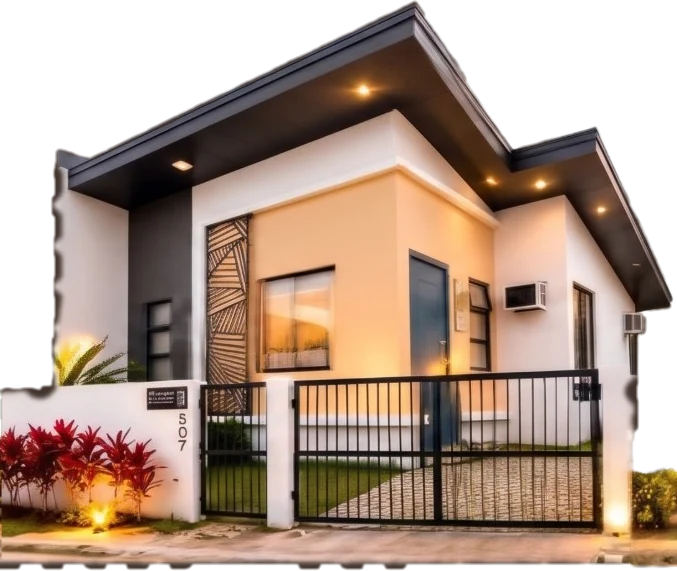
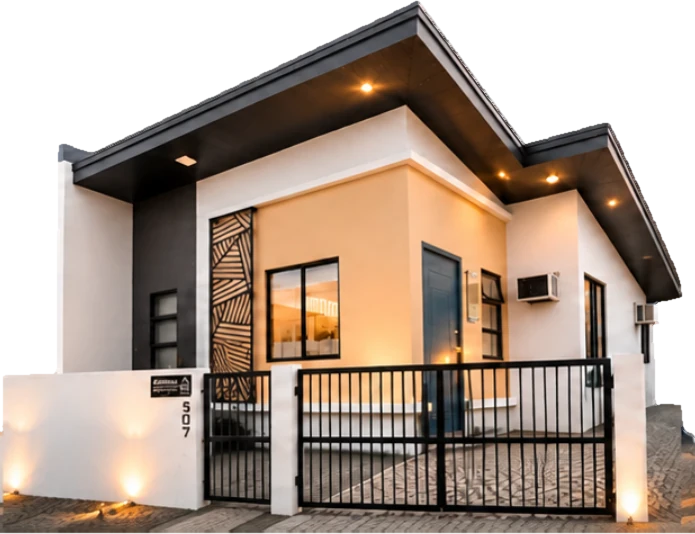
House cut-outs from the Canva pictures: white background becomes transparency, houses split at their gaps
Claude-Session: https://claude.ai/code/session_01MkTV9UDit9hhRyBLPYsYJ9

diff --git a/design/house-models/make-cutouts.py b/design/house-models/make-cutouts.py
@@ -1,21 +1,25 @@
-"""Turn the supplied house renders into transparent WebP cut-outs for public/assets/img/models/.
+"""Turn the supplied house pictures into transparent WebP cut-outs for public/assets/img/models/.
 
-    pip install numpy pillow scipy opencv-python-headless
+    pip install numpy pillow scipy
     python3 design/house-models/make-cutouts.py
 
-Two kinds of source picture are handled:
+The pictures in `source/` come from Canva's background remover, exported as PNG with the
+background left white (pure white, 255). Two kinds of source are handled:
 
-* A picture with real transparency is only cropped and trimmed. Nothing is repainted.
-* A picture with a checkerboard painted into the pixels (what a flattened screenshot or JPEG
-  gives) has the checkerboard removed. The squares are white and one light grey; their size is
-  measured from the top of each picture, so 1024 px and 2000 px sources both work. A pixel counts
-  as "checkerboard" when it is light and neutral AND its neighbourhood holds both checker tones,
-  which a plain white wall never does. That core is grown a few pixels to reach the house edge,
-  then GrabCut settles the edge itself.
+* A picture with real transparency is only cropped and trimmed.
+* A picture on a flat white background has the white that touches the picture's edge turned into
+  transparency (white walls inside the house are not touched, because they are not connected to
+  the edge), the one-pixel rim of half-white pixels is replaced by the colour just inside it so no
+  white halo shows on a dark page, and a large pocket of pure white seen through the house (an open
+  carport) is made transparent too.
+
+Pictures with several houses are split at the clear gaps between them.
+
+Do NOT use a screenshot, a JPEG, or a picture with a checkerboard painted in: those carry no
+transparency and cannot be cut cleanly.
 """
 from pathlib import Path
 
-import cv2
 import numpy as np
 from PIL import Image
 from scipy import ndimage as ndi
@@ -24,62 +28,48 @@ HERE = Path(__file__).parent
 SRC = HERE / "source"
 OUT = HERE.parent.parent / "public" / "assets" / "img" / "models"
 MAX_WIDTH = 1400  # the page never shows a house wider than this, even on a 2x screen
-
-
-def odd(n):
-    n = max(3, int(round(n)))
-    return n if n % 2 else n + 1
-
-
-def checker_cell(gray):
-    """Size in px of one checker square, from the autocorrelation of a row near the top."""
-    h, w = gray.shape
-    best = None
-    for y in (4, 7, 10, 13):
-        row = gray[min(y, h - 1), : min(w, 700)].astype(np.float32)
-        row = row - row.mean()
-        n = len(row)
-        ac = np.correlate(row, row, mode="full")[n - 1 :]
-        ac = ac / (ac[0] + 1e-6)
-        # first clear peak after the first dip = the full period (two squares)
-        dip = next((i for i in range(2, 120) if ac[i] < 0.1), None)
-        if dip is None:
-            continue
-        peak = dip + int(np.argmax(ac[dip : dip + 160]))
-        if ac[peak] > 0.3:
-            best = peak if best is None else min(best, peak)
-    return max(4.0, (best or 20) / 2.0)
-
-
-def checker_masks(rgb, cell):
-    a = rgb.astype(np.int16)
-    gray = a.mean(axis=2)
-    sat = a.max(axis=2) - a.min(axis=2)
-    c = int(max(60, cell * 6))
-    corner = gray[:c, :c]
-    grey_tone = float(np.median(corner[corner < 240]))
-    neutral = sat < 18
-    white = neutral & (gray >= 243)
-    grey = neutral & (np.abs(gray - grey_tone) <= 16)
-    k = odd(cell * 1.1)
-    wf = ndi.uniform_filter(white.astype(np.float32), k)
-    gf = ndi.uniform_filter(grey.astype(np.float32), k)
-    core = (wf > 0.15) & (gf > 0.15) & (wf + gf > 0.9)
-    # "light" is what the edge may grow through: only pixels that are as flat and neutral as the
-    # checker itself (pure white, or exactly the grey tone). A cream or lit white wall is not.
-    light = (sat <= 5) & ((gray >= 250) | (np.abs(gray - grey_tone) <= 9))
-    return core, light, grey_tone
+WHITE_TOL = 253  # a pixel is "white" when its darkest channel is at least this
 
 
 def has_alpha(img):
-    """True when the picture already carries real transparency (not a checkerboard painted in)."""
     if img.mode not in ("RGBA", "LA", "PA") and "transparency" not in img.info:
         return False
     lo, _ = img.convert("RGBA").getchannel("A").getextrema()
     return lo < 250
 
 
-def finish(im):
+def to_rgba(img):
+    """RGBA copy of a picture, with transparency made from its white background if it has none."""
+    if has_alpha(img):
+        return img.convert("RGBA")
+
+    rgb = np.asarray(img.convert("RGB")).copy()
+    white = rgb.min(axis=2) >= WHITE_TOL
+    lab, _ = ndi.label(white)
+    edge = np.unique(np.concatenate([lab[0], lab[-1], lab[:, 0], lab[:, -1]]))
+    bg = np.isin(lab, edge[edge > 0])
+
+    # Pure white seen through the house (an open carport, a gap between railings) is background too.
+    exact = rgb.min(axis=2) == 255
+    lab2, n2 = ndi.label(exact & ~bg)
+    if n2:
+        sizes = ndi.sum(exact & ~bg, lab2, range(1, n2 + 1))
+        bg |= np.isin(lab2, [i + 1 for i, sz in enumerate(sizes) if sz >= 600])
+
+    # Anti-aliased rim: drop one pixel, soften the next, and take the colour from just inside.
+    solid = ndi.binary_erosion(~bg, iterations=1)
+    alpha = ndi.gaussian_filter(solid.astype(np.float32), 0.7)
+    alpha = np.clip((alpha - 0.1) / 0.8, 0, 1)
+    interior = ndi.binary_erosion(~bg, iterations=3)
+    _, idx = ndi.distance_transform_edt(~interior, return_indices=True)
+    rim = (alpha < 0.999) | ~interior
+    rim &= ~bg
+    out = rgb.copy()
+    out[rim] = rgb[idx[0][rim], idx[1][rim]]
+    return Image.fromarray(np.dstack([out, (alpha * 255).astype(np.uint8)]), "RGBA")
+
+
+def trim(im):
     box = im.getchannel("A").point(lambda v: 255 if v > 8 else 0).getbbox()
     if box:
         im = im.crop(box)
@@ -88,121 +78,96 @@ def finish(im):
     return im
 
 
-def save(im, out_path):
-    if out_path:
-        out_path.parent.mkdir(parents=True, exist_ok=True)
-        im.save(out_path, "WEBP", quality=88, method=6)
-    return im
+def split_points(im, count):
+    """x positions that separate `count` houses side by side: the middle of the widest clear gaps
+    in the upper part of the picture (the fences and ground strip below may run into each other)."""
+    a = np.asarray(im.getchannel("A")).astype(np.float32)
+    top = a[: int(a.shape[0] * 0.62)]
+    empty = top.sum(axis=0) < 255 * 2
+    gaps, x = [], 0
+    while x < len(empty):
+        if empty[x]:
+            y = x
+            while y < len(empty) and empty[y]:
+                y += 1
+            if x > 0 and y < len(empty):  # ignore the empty margins on either side
+                gaps.append((y - x, (x + y) // 2))
+            x = y
+        else:
+            x += 1
+    best = sorted(gaps, reverse=True)[: count - 1]
+    # Fences and the ground strip can run past the middle of the gap, so slide each cut to the
+    # emptiest column nearby, looking at the middle and lower part of the picture.
+    mid = a[int(a.shape[0] * 0.3) : int(a.shape[0] * 0.97)].sum(axis=0)
+    cuts = []
+    for width, centre in sorted(best, key=lambda g: g[1]):
+        r = max(40, width // 2 + 60)
+        lo, hi = max(0, centre - r), min(len(mid), centre + r)
+        cuts.append(lo + int(np.argmin(mid[lo:hi])))
+    return cuts
 
 
-# Open carports show the checkerboard through the house. Where the automatic pass misses a pocket,
-# these boxes (fractions x0, y0, x1, y1 of the finished cut-out) are painted as shade.
-PATCHES = {}
+def drop_edge_slivers(im):
+    """Remove a thin piece of the neighbouring house left at either edge of a crop: a narrow blob,
+    separated from the house by a clear gap, in the middle and lower part of the picture."""
+    a = np.asarray(im.getchannel("A")).astype(np.float32)
+    w = a.shape[1]
+    band = a[int(a.shape[0] * 0.3) : int(a.shape[0] * 0.9)]
+    used = band.sum(axis=0) > 255 * 2
+    runs, x = [], 0
+    while x < w:
+        if used[x]:
+            y = x
+            while y < w and used[y]:
+                y += 1
+            runs.append((x, y))
+            x = y
+        else:
+            x += 1
+    if len(runs) < 2:
+        return im
+    x0, x1 = 0, w
+    if runs[0][1] - runs[0][0] < 0.14 * w and runs[1][0] - runs[0][1] >= 3:
+        x0 = runs[0][1]
+    if runs[-1][1] - runs[-1][0] < 0.14 * w and runs[-1][0] - runs[-2][1] >= 3:
+        x1 = runs[-1][0]
+    return im.crop((x0, 0, x1, im.height)) if (x0, x1) != (0, w) else im
 
 
-def patch(im, boxes):
-    arr = np.asarray(im).copy()
-    h, w = arr.shape[:2]
-    for fx0, fy0, fx1, fy1 in boxes:
-        x0, y0, x1, y1 = int(fx0 * w), int(fy0 * h), int(fx1 * w), int(fy1 * h)
-        box = np.zeros(arr.shape[:2], bool)
-        box[y0:y1, x0:x1] = True
-        ring = ndi.binary_dilation(box, iterations=max(3, w // 60)) & ~box & (arr[..., 3] > 200)
-        shade = (np.median(arr[ring][:, :3], axis=0) * 0.5).astype(np.uint8)
-        soft = cv2.GaussianBlur(box.astype(np.float32), (0, 0), max(1.5, w / 250))[..., None]
-        arr[..., :3] = (arr[..., :3] * (1 - soft) + shade * soft).astype(np.uint8)
-        arr[..., 3] = np.maximum(arr[..., 3], (soft[..., 0] * 255).astype(np.uint8))
-    return Image.fromarray(arr, "RGBA")
+# Fence of the neighbouring house that touches the house and cannot be told apart by a gap:
+# fraction of the width to drop from the (left, right) edge.
+TRIM = {"corin-120": (0.085, 0.0), "charles-70": (0.045, 0.0), "charles-150": (0.0, 0.015)}
 
 
-def cut(path, out_path=None, crop=None):
-    src = Image.open(path)
-    if has_alpha(src):
-        # Real transparency: only crop and trim. Nothing is cut out or repainted.
-        rgba = src.convert("RGBA")
-        return save(finish(rgba.crop(crop) if crop else rgba), out_path)
-
-    full = np.asarray(src.convert("RGB"))
-    cell = checker_cell(full.astype(np.int16).mean(axis=2))
-    s = cell / 10.0  # the first pictures had squares of about 10 px; every size is scaled from that
-    img = src.convert("RGB")
-    if crop:
-        img = img.crop(crop)
-    rgb = np.asarray(img)
-    core, light, tone = checker_masks(rgb, cell)
-
-    # Grow the checker core a few pixels through light neutral pixels to reach the house edge.
-    bg = core.copy()
-    for _ in range(max(3, int(round(cell * 0.6 + 4)))):
-        bg = ndi.binary_dilation(bg, iterations=1) & (light | core)
-    bg = ndi.binary_opening(bg, iterations=1) | core
-
-    # GrabCut: the checker is definitely background; strong colour or dark is definitely house.
-    gray = rgb.astype(np.int16).mean(axis=2)
-    sat = rgb.max(axis=2).astype(np.int16) - rgb.min(axis=2)
-    sure_fg = ndi.binary_erosion((sat > 45) | (gray < 140), iterations=max(1, int(round(2 * s))))
-    mask = np.full(rgb.shape[:2], cv2.GC_PR_FGD, np.uint8)
-    mask[bg] = cv2.GC_PR_BGD
-    mask[ndi.binary_erosion(core, iterations=max(1, int(round(2 * s))))] = cv2.GC_BGD
-    mask[sure_fg] = cv2.GC_FGD
-    bgd = np.zeros((1, 65), np.float64)
-    fgd = np.zeros((1, 65), np.float64)
-    cv2.grabCut(cv2.cvtColor(rgb, cv2.COLOR_RGB2BGR), mask, None, bgd, fgd, 4, cv2.GC_INIT_WITH_MASK)
-    fg = (mask == cv2.GC_FGD) | (mask == cv2.GC_PR_FGD)
-
-    # Keep the largest pieces and fill pin-holes.
-    lab, n = ndi.label(fg)
-    if n:
-        sizes = ndi.sum(fg, lab, range(1, n + 1))
-        fg = np.isin(lab, [i + 1 for i, sz in enumerate(sizes) if sz > 0.01 * fg.sum()])
-    fg = ndi.binary_fill_holes(fg)
-
-    # Checkerboard seen through an open carport (or between walls) is still checkerboard: paint any
-    # pocket of it bigger than a window frame with the dark tone around it, so it reads as shade.
-    gray16 = rgb.astype(np.int16).mean(axis=2)
-    sat16 = rgb.max(axis=2).astype(np.int16) - rgb.min(axis=2)
-    k7 = odd(cell * 0.7)
-    wf = ndi.uniform_filter(((sat16 < 18) & (gray16 >= 243)).astype(np.float32), k7)
-    gf = ndi.uniform_filter(((sat16 < 18) & (np.abs(gray16 - tone) <= 16)).astype(np.float32), k7)
-    pocket = (wf > 0.2) & (gf > 0.2) & (wf + gf > 0.85)
-    plab, pn = ndi.label(pocket)
-    if pn:
-        psizes = ndi.sum(pocket, plab, range(1, pn + 1))
-        big = np.isin(plab, [i + 1 for i, sz in enumerate(psizes) if sz >= 25 * s * s])
-        pocket_px = ndi.binary_dilation(big, iterations=max(2, int(round(4 * s))))
-        ring = ndi.binary_dilation(pocket_px, iterations=max(2, int(round(5 * s)))) & ~pocket_px & fg
-        if ring.any():
-            shade = (np.median(rgb[ring], axis=0) * 0.33).astype(np.uint8)
-            soft = cv2.GaussianBlur(pocket_px.astype(np.float32), (0, 0), 1.2 * s)[..., None]
-            rgb = (rgb * (1 - soft) + shade * soft).astype(np.uint8)
-
-    alpha = cv2.GaussianBlur(fg.astype(np.float32), (0, 0), 0.8 * max(1.0, s))
-    alpha = np.clip((alpha - 0.15) / 0.7, 0, 1)
-    im = finish(Image.fromarray(np.dstack([rgb, (alpha * 255).astype(np.uint8)]), "RGBA"))
-    if out_path and out_path.stem in PATCHES:
-        im = patch(im, PATCHES[out_path.stem])
-    return save(im, out_path)
+def trim_edges(im, name):
+    left, right = TRIM.get(name, (0.0, 0.0))
+    if not (left or right):
+        return im
+    return im.crop((int(im.width * left), 0, int(im.width * (1 - right)), im.height))
 
 
-# output name -> (source file, crop box in the source's pixels or None)
-JOBS = {
-    # 2000 px pictures
-    "charles-150": ("charles150-corin.jpg", (0, 0, 1072, 846)),
-    "corin-120": ("charles150-corin.jpg", (1072, 0, 2000, 846)),
-    "cartland-54": ("cartland-charles-christie.jpg", (0, 0, 715, 827)),
-    "charles-70": ("cartland-charles-christie.jpg", (715, 0, 1312, 827)),
-    "christie-90": ("cartland-charles-christie.jpg", (1312, 0, 2000, 827)),
-    "unna": ("unna-brenna-dua.jpg", (0, 0, 718, 795)),
-    "brenna": ("unna-brenna-dua.jpg", (718, 0, 1395, 795)),
-    "dua": ("unna-brenna-dua.jpg", (1395, 0, 2000, 795)),
-    "aurora": ("aurora.jpg", None),
-    "alora": ("alora.jpg", None),
-    # first, smaller pictures (replace with 2000 px ones when available)
-    "calista": ("calista.png", None),
-    "amani": ("amani.webp", None),
+# source file -> output names, left to right
+SOURCES = {
+    "calista.png": ["calista"],
+    "amani.png": ["amani"],
+    "alora.png": ["alora"],
+    "aurora.png": ["aurora"],
+    "unna-brenna-dua.png": ["unna", "brenna", "dua"],
+    "cartland-charles-christie.png": ["cartland-54", "charles-70", "christie-90"],
+    "charles150-corin.png": ["charles-150", "corin-120"],
 }
 
+
+def save(im, name):
+    OUT.mkdir(parents=True, exist_ok=True)
+    im.save(OUT / f"{name}.webp", "WEBP", quality=90, method=6)
+
+
 if __name__ == "__main__":
-    for name, (file, crop) in JOBS.items():
-        cut(SRC / file, OUT / f"{name}.webp", crop=crop)
+    for file, names in SOURCES.items():
+        rgba = to_rgba(Image.open(SRC / file))
+        cuts = [0, *split_points(rgba, len(names)), rgba.width]
+        assert len(cuts) == len(names) + 1, f"{file}: found {len(cuts) - 2} gaps for {len(names)} houses"
+        for name, x0, x1 in zip(names, cuts, cuts[1:]):
+            save(trim(trim_edges(drop_edge_slivers(rgba.crop((x0, 0, x1, rgba.height))), name)), name)
     print("done:", sorted(p.name for p in OUT.glob("*.webp")))
